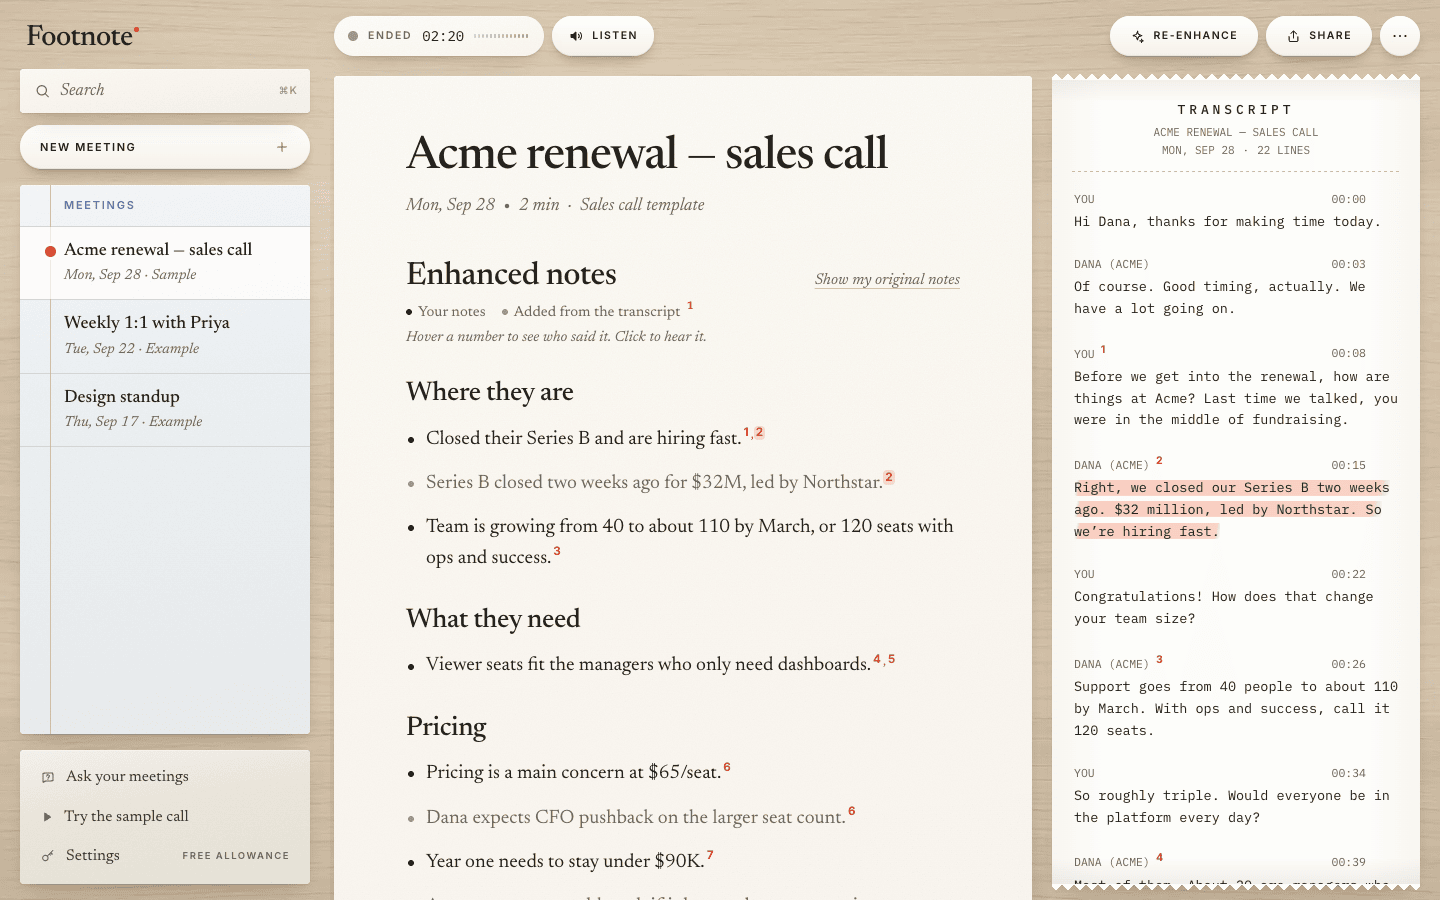
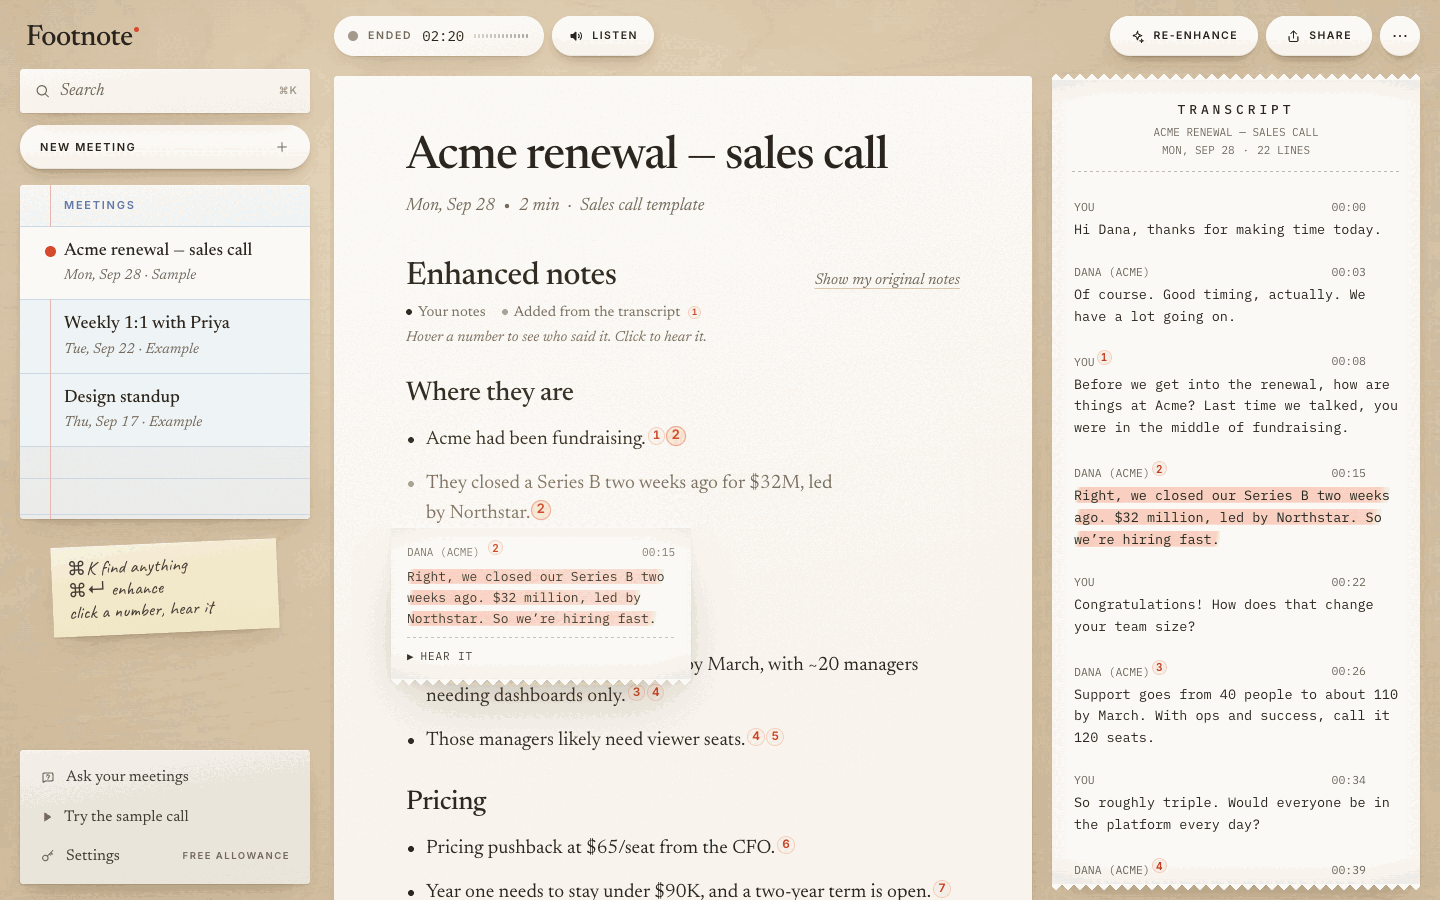
README: new screenshot and demo GIF (printer, page turn, ink, hover receipt)

diff --git a/README.md b/README.md
@@ -2,9 +2,9 @@
 
 **Meeting notes with receipts.** Type rough notes during the call. Footnote turns them into clear notes where every line links to the exact moment it was said. It runs in your browser, keeps your meetings on your device, and it's free and open source with your own OpenAI key, instead of $14 a month.
 
-![Footnote: enhanced notes on the left, the transcript on the right, a footnote highlighting the line it cites](docs/workspace.png)
+![Footnote: enhanced notes on a paper sheet, a footnote's receipt slip showing the words it cites, and the transcript receipt with that line highlighted](docs/workspace.png)
 
-![Footnote: the sample call, Enhance, then a footnote plays the exact moment it cites](docs/demo.gif)
+![Footnote: the landing page prints a receipt, a page turns into the app, the sample call ends, Enhance inks the notes in with footnotes, and hovering a footnote feeds out its receipt](docs/demo.gif)
 
 **Try it in ten seconds:** open the demo at **[footnote-receipts.vercel.app](https://footnote-receipts.vercel.app)** and press **Try a sample meeting**. A staged two-minute renewal call plays, the transcript and rough notes fill in as if you were on it, then **Enhance** writes the notes live, with a footnote on every line the AI added. Click a footnote to hear the moment it cites. No account, no key, no setup. (With no AI key on the server, Enhance, the recipes and the suggested questions on the sample show clearly labeled cached results; add your own key in Settings to run everything live.)
 
